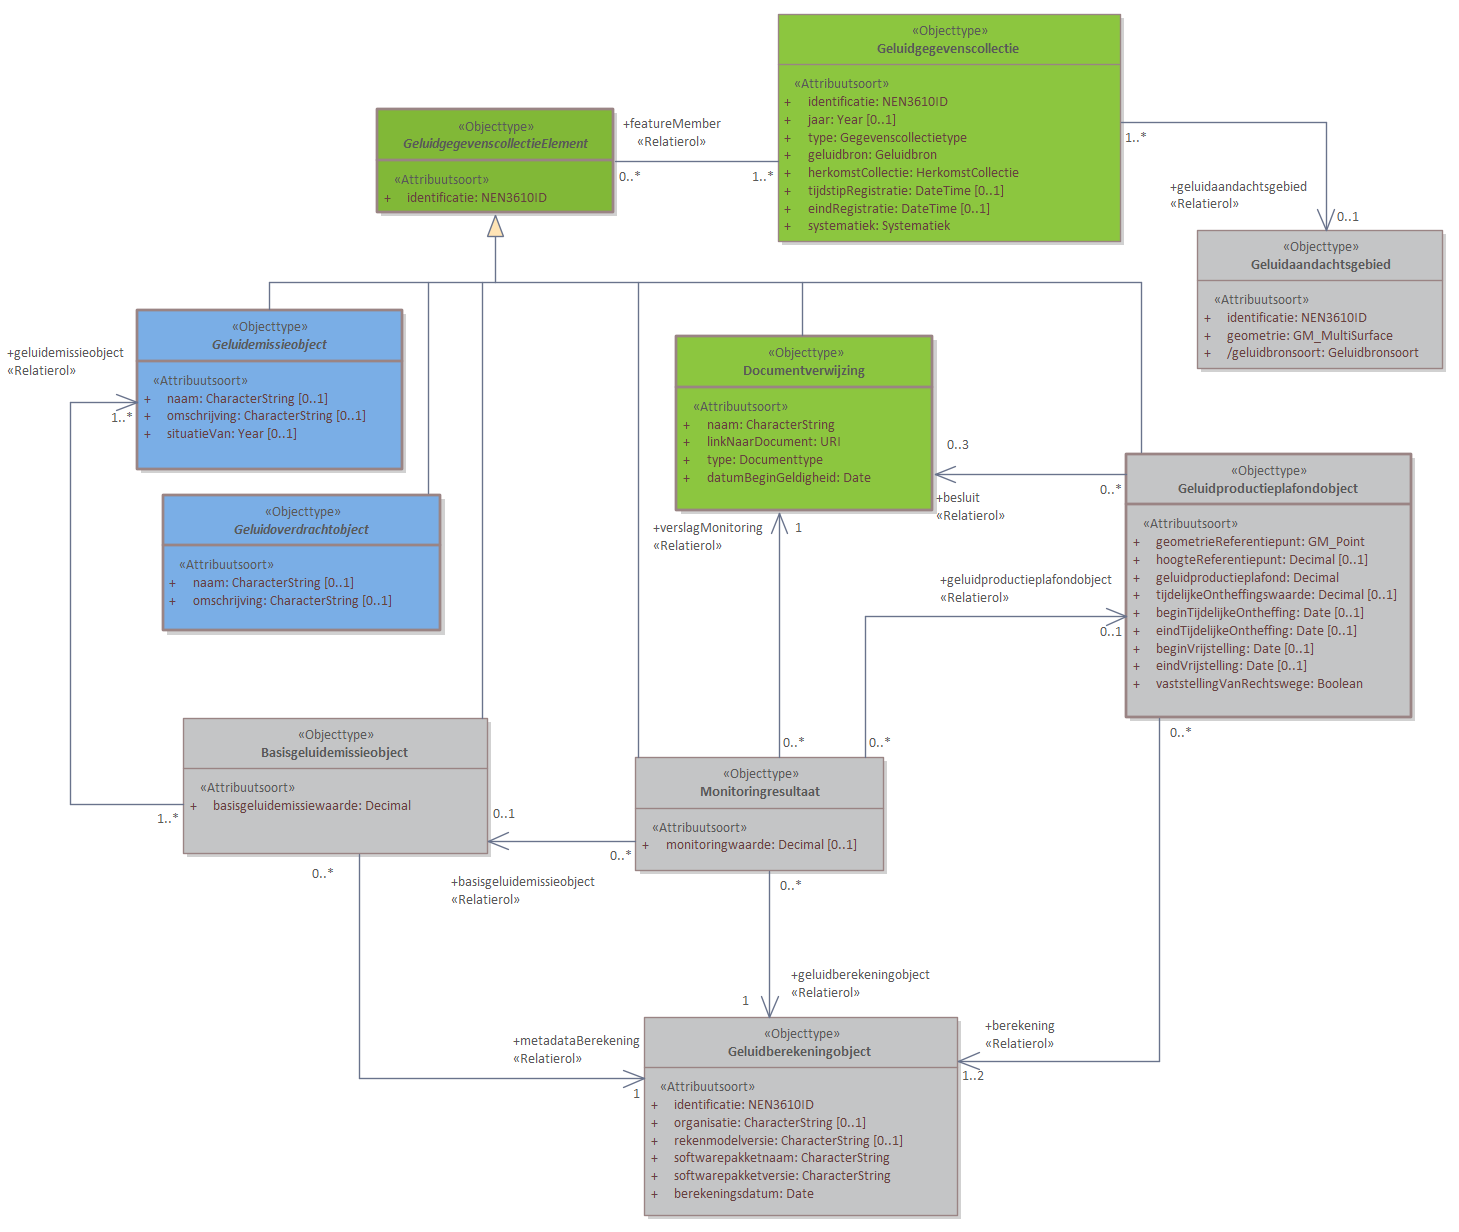
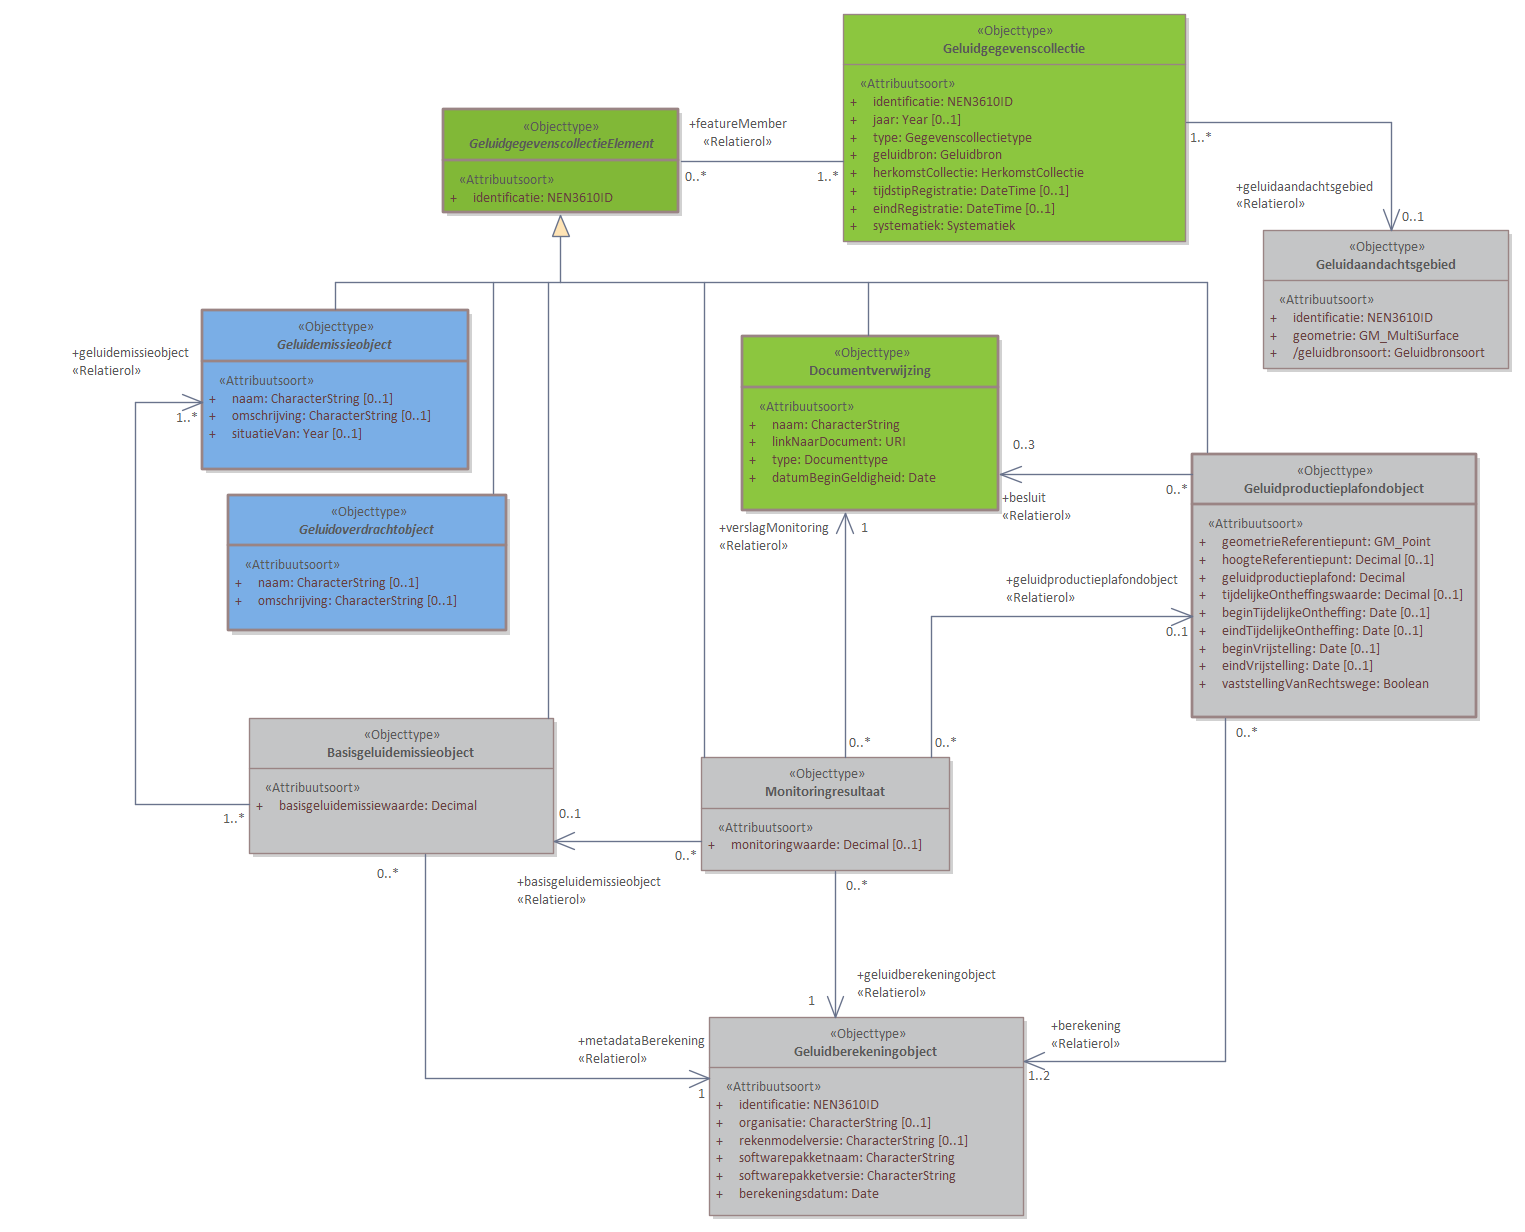
MIMLM-InformatiemodelGeluid-2.0-0-20210521-20220609-174703

diff --git a/data/IMG-cat.respec.html b/data/IMG-cat.respec.html
@@ -1,10 +1,10 @@
 
 <!DOCTYPE HTML><section id="cat" class="normative">
    <h2>Gegevensdefinitie</h2>
-   <!--MIMLM-InformatiemodelGeluid-2.0-0-20210521-20220609-171821 imvertor 1.66.0-->
+   <!--MIMLM-InformatiemodelGeluid-2.0-0-20210521-20220609-174703 imvertor 1.66.0-->
    <section id="EAID_66AE8FA2_74FC_4d4d_B2B2_249C8D6A651F">
       <h3>   Basismodel - overzicht</h3>
-      <div class="imageinfo overview"><img src="data/Images/EAID_66AE8FA2_74FC_4d4d_B2B2_249C8D6A651F.png" usemap="#imagemap-EAID_66AE8FA2_74FC_4d4d_B2B2_249C8D6A651F" alt="Diagram &#xA;                        Het Basismodel vormt de samenhang tussen alle domeinen van het IMGeluid. Alle objecttypen en relaties uit het IMGeluid komen samen in een Geluidgegevenscollectie.&#xA;Binnen het IMGeluid worden geluidbrongegevens die gebruikt worden voor GPP en BGE berekeningen, gemodelleerd als een Geluidemissie of Geluidoverdrachtobject. De resultaten van GPP of BGE berekeningen worden opgeslagen in een Geluidgegevenscollectie. De onderliggende juridische vastleggingen, vaststellingen, of monitoringsverslagen van deze omgevings- of monitoringswaarden, worden ook opgeslagen in dezelfde Geluidgegevenscollectie.&#xA;Per geluidbron per toepassing kan er een Geluidgegevenscollectie bestaan. Deze kan geassocieerd worden met maximaal 1 Geluidaandachtsgebied. Wanneer geluidgegevens met betrekking tot cumulatieberekeningen worden aangeleverd, bevat een Geluidgegevenscollectie geen Geluidaandachtsgebied.&#xA;Klik met de rechtermuisknop op het diagram om de afbeelding op volledige grootte in een nieuw tabblad te openen.&#xA;                     "><map name="imagemap-EAID_66AE8FA2_74FC_4d4d_B2B2_249C8D6A651F"><area shape="rect" alt="GeluidgegevenscollectieElement" coords="377,109,614,213" href="#graph_EAID_924BD078_D715_461a_B7E9_D7176A7406E0"><area shape="rect" alt="Monitoringresultaat" coords="635,757,884,871" href="#graph_EAID_BA00B77B_D408_4590_8185_CE59E5838F1E"><area shape="rect" alt="Basisgeluidemissieobject" coords="183,718,488,854" href="#graph_EAID_9AD15457_4880_42e5_8C72_4E5EFAC91B15"><area shape="rect" alt="Geluidproductieplafondobject" coords="1126,454,1412,718" href="#graph_EAID_237408F8_8CE9_4828_B8FB_1A5B8C917622"><area shape="rect" alt="Geluidberekeningobject" coords="644,1017,958,1216" href="#graph_EAID_97ED59FE_9FCA_49a6_8F07_214E48000B76"><area shape="rect" alt="Documentverwijzing" coords="676,336,933,511" href="#graph_EAID_7E137496_1028_4af5_9367_569358A2167B"><area shape="rect" alt="Geluidaandachtsgebied" coords="1197,230,1443,369" href="#graph_EAID_B06128AC_518C_4e26_88E5_14ED5A050A19"><area shape="rect" alt="Geluidgegevenscollectie" coords="778,14,1121,242" href="#graph_EAID_313C5AF9_49B8_4860_9E65_DE7C70084864"><area shape="rect" alt="Geluidemissieobject" coords="137,310,403,470" href="#graph_EAID_361C96BA_A638_494e_80BA_590ED481A81B"><area shape="rect" alt="Geluidoverdrachtobject" coords="163,495,441,631" href="#graph_EAID_2FEA326B_B7E7_48a4_B50F_00CCB2694677"></map><p><b>Basismodel - overzicht</b>
+      <div class="imageinfo overview"><img src="data/Images/EAID_66AE8FA2_74FC_4d4d_B2B2_249C8D6A651F.png" usemap="#imagemap-EAID_66AE8FA2_74FC_4d4d_B2B2_249C8D6A651F" alt="Diagram &#xA;                        Het Basismodel vormt de samenhang tussen alle domeinen van het IMGeluid. Alle objecttypen en relaties uit het IMGeluid komen samen in een Geluidgegevenscollectie.&#xA;Binnen het IMGeluid worden geluidbrongegevens die gebruikt worden voor GPP en BGE berekeningen, gemodelleerd als een Geluidemissie of Geluidoverdrachtobject. De resultaten van GPP of BGE berekeningen worden opgeslagen in een Geluidgegevenscollectie. De onderliggende juridische vastleggingen, vaststellingen, of monitoringsverslagen van deze omgevings- of monitoringswaarden, worden ook opgeslagen in dezelfde Geluidgegevenscollectie.&#xA;Per geluidbron per toepassing kan er een Geluidgegevenscollectie bestaan. Deze kan geassocieerd worden met maximaal 1 Geluidaandachtsgebied. Wanneer geluidgegevens met betrekking tot cumulatieberekeningen worden aangeleverd, bevat een Geluidgegevenscollectie geen Geluidaandachtsgebied.&#xA;Klik met de rechtermuisknop op het diagram om de afbeelding op volledige grootte in een nieuw tabblad te openen.&#xA;                     "><map name="imagemap-EAID_66AE8FA2_74FC_4d4d_B2B2_249C8D6A651F"><area shape="rect" alt="GeluidgegevenscollectieElement" coords="443,109,679,213" href="#graph_EAID_924BD078_D715_461a_B7E9_D7176A7406E0"><area shape="rect" alt="Monitoringresultaat" coords="701,757,950,871" href="#graph_EAID_BA00B77B_D408_4590_8185_CE59E5838F1E"><area shape="rect" alt="Basisgeluidemissieobject" coords="249,718,554,854" href="#graph_EAID_9AD15457_4880_42e5_8C72_4E5EFAC91B15"><area shape="rect" alt="Geluidproductieplafondobject" coords="1192,454,1477,718" href="#graph_EAID_237408F8_8CE9_4828_B8FB_1A5B8C917622"><area shape="rect" alt="Geluidberekeningobject" coords="709,1017,1024,1216" href="#graph_EAID_97ED59FE_9FCA_49a6_8F07_214E48000B76"><area shape="rect" alt="Documentverwijzing" coords="742,336,999,511" href="#graph_EAID_7E137496_1028_4af5_9367_569358A2167B"><area shape="rect" alt="Geluidaandachtsgebied" coords="1263,230,1509,369" href="#graph_EAID_B06128AC_518C_4e26_88E5_14ED5A050A19"><area shape="rect" alt="Geluidgegevenscollectie" coords="843,14,1186,242" href="#graph_EAID_313C5AF9_49B8_4860_9E65_DE7C70084864"><area shape="rect" alt="Geluidemissieobject" coords="202,310,469,470" href="#graph_EAID_361C96BA_A638_494e_80BA_590ED481A81B"><area shape="rect" alt="Geluidoverdrachtobject" coords="228,495,507,631" href="#graph_EAID_2FEA326B_B7E7_48a4_B50F_00CCB2694677"></map><p><b>Basismodel - overzicht</b>
             
             <p>Het Basismodel vormt de samenhang tussen alle domeinen van het IMGeluid. Alle objecttypen
                en relaties uit het IMGeluid komen samen in een Geluidgegevenscollectie.
@@ -25889,7 +25889,7 @@
 </section>
 <section id="lis" class="normative">
    <h2>Inhoud van waardenlijsten</h2>
-   <!--MIMLM-InformatiemodelGeluid-2.0-0-20210521-20220609-171821 imvertor 1.66.0--><a class="anchor" id="graph_EAID_C9ACE184_6E2B_40c1_ACE0_A7C5EE554EF9"></a><a class="anchor" id="detail_class_IMGeluidAlgemeen_Schermtype"></a><section id="detail_class_IMGeluidAlgemeen_Schermtype">
+   <!--MIMLM-InformatiemodelGeluid-2.0-0-20210521-20220609-174703 imvertor 1.66.0--><a class="anchor" id="graph_EAID_C9ACE184_6E2B_40c1_ACE0_A7C5EE554EF9"></a><a class="anchor" id="detail_class_IMGeluidAlgemeen_Schermtype"></a><section id="detail_class_IMGeluidAlgemeen_Schermtype">
       <h3>Enumeratie details  Schermtype</h3>
       
       <table style="width: 100%;" class="list">
